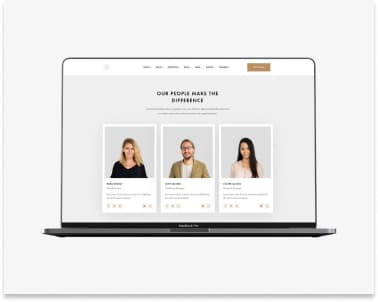
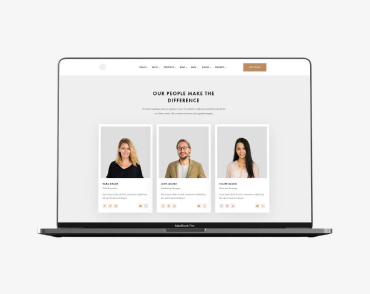
Виконані правки по 2 ДЗ

diff --git a/css/styles.css b/css/styles.css
@@ -1,7 +1,25 @@
+:root {
+  --brand-color-left: #2196F3;
+  --brand-color-right: #000000;
+  --brand-color-fut: #FFFFFF;
+  --hover-color: #2196F3;
+  --nav-color: #212121;
+  --contacts-color: #757575;
+  --hero-bg-color: #2F303A;
+  --light-collor: #FFFFFF;
+  --button-color: #2196F3;
+  --button-hover-color: #188CE8;
+  --spec-content-color: #757575;
+  --team-content-color: #F5F4FA;
+  --footer-color: #2F303A;
+  --cont-foot-color: #ffffff99;
+  --button-filters-color: #F5F4FA;
+  --portfolio-content-color: #757575;
+}
+
+
 body {
   font-family: 'Roboto';
-  font-style: normal;
-  font-weight: 400;
   font-size: 14px;
   color: #212121;
   letter-spacing: 0.03em;
@@ -21,7 +39,7 @@ font-family: 'Raleway';
   font-weight: 700;
   font-size: 26px;
   line-height: 1.19;
-  color: #2196F3;
+  color: var(--brand-color-left);
 }
 /* Друга частина лого */
 .logo-studio {
@@ -29,7 +47,7 @@ font-family: 'Raleway';
   font-weight: 700;
   font-size: 26px;
   line-height: 1.19;
-  color: #000000;
+  color: var(--brand-color-right);
 }
 /* Частина лого у футері (біла)*/
 .logo-studio-collor {
@@ -37,7 +55,7 @@ font-family: 'Raleway';
   font-weight: 700;
   font-size: 26px;
   line-height: 1.19;
-  color: #FFFFFF;
+  color: var(--brand-color-fut);
 }
 
 /* Навігація сайту */
@@ -45,40 +63,39 @@ font-family: 'Raleway';
   text-decoration: none;
   list-style: none;
     font-weight: 500;
-    font-size: 14px;
     line-height: 1.14;
     letter-spacing: 0.02em;
-    color: #212121;
+    color: var(--nav-color);
 
 }
 .nav-link:hover, 
 .nav-link:focus {
-  color: #2196F3;
+  color: var(--hover-color);
 }
 
 .nav .studio.current,
 .nav .portfolio.current {
-  color: #2196F3;
+  color: var(--hover-color);
 }
 
 /* Контакти сайту */
 .contacts a {
-    font-size: 14px;
+    font-weight: 500;
     line-height: 1.71;
     text-decoration: none;
-    color: #757575;
+    color: var(--contacts-color);
 }
 
 .contacts a:hover,
 .contacts a:focus {
-color: #2196F3;
+color: var(--hover-color);
 }
 
 
 
 /* Стилі на основний заголовок  */
 .hero {
-  background: #2F303A;
+  background: var(--hero-bg-color);
 }
 
 .heero-title {
@@ -88,7 +105,7 @@ color: #2196F3;
     text-align: center;
     letter-spacing: 0.06em;
     text-transform: uppercase;
-    color: #FFFFFF;
+    color: var(--light-collor);
     text-shadow: 0px 4px 4px rgba(0, 0, 0, 0.25);
 }
 /* Стилі на кнопку під основним банером */
@@ -102,14 +119,14 @@ color: #2196F3;
     text-align: center;
     letter-spacing: 0.06em;
     border-radius: 4px;
-    background: #2196F3;
-      color: #FFFFFF;
+    background: var(--button-color);
+      color: var(--light-collor);
 }
 
 
 .button:hover,
 .button:focus {
-  background: #188CE8;
+  background: var(--button-hover-color);
     box-shadow: 0px 4px 4px rgba(0, 0, 0, 0.15);
 }
 
@@ -133,16 +150,13 @@ color: #2196F3;
 
 .special-title {
     font-weight: 700;
-    font-size: 14px;
     line-height: 1.14;
     text-transform: uppercase;
 }
 
 .special-content {
-    font-weight: 400;
-    font-size: 14px;
     line-height: 1.71;
-    color: #757575;
+    color: var(--spec-content-color);
 }
 
 .title {
@@ -153,7 +167,7 @@ color: #2196F3;
 }
 
 .team {
-  background: #F5F4FA
+  background: var(--team-content-color);
 }
 
 .team-name {
@@ -167,31 +181,35 @@ font-weight: 500;
   font-size: 16px;
   line-height: 1.19;
   text-align: center;
-  color: #757575;
+  color: var(--spec-content-color);
 }
 
 .footer {
-  background: #2F303A;
+  background: var(--footer-color);
 }
 
 .contacts-foot {
     text-decoration: none;
     font-weight: 400;
-    font-size: 14px;
     line-height: 1.71;
-    color: #ffffff99;
+    color: var(--cont-foot-color);
 
 }
 
 .contacts-foot:hover,
 .contacts-foot:focus {
-  color: #2196F3;
+  color: var(--hover-color);
 }
 .address {
 text-decoration: none;
-font-size: 14px;
 line-height: 1.71;
-color: #FFFFFF;
+color: var(--light-collor);
+}
+
+.address-item {
+  line-height: 1.71;
+  letter-spacing: 0.03em;
+  color: var(--light-collor)
 }
 
 /* Portfolio */
@@ -201,13 +219,14 @@ color: #FFFFFF;
   font-weight: 500;
     font-size: 16px;
     line-height: 1.63;
-    background-color: #F5F4FA ;
+    background-color: var(--button-filters-color);
+    color: var(--nav-color);
 }
 
 .button-filters:hover,
 .button-filters:focus {
-  background-color: #2196F3;
-  color: #FFFFFF;
+  background-color: var(--button-hover-color);
+  color: var(--light-collor);
 }
 
 .portfolio-title {
@@ -220,7 +239,17 @@ color: #FFFFFF;
 .portfolio-content {
     font-size: 16px;
     line-height: 1.87;
-    color: #757575;
+    color: var(--portfolio-content-color)
 
 }
+.adres {
+  font-style: normal;
+}
+.address-position {
+  text-decoration: none;
+}
 
+.address:hover,
+.address:focus{
+  color: var(--button-hover-color);
+}

diff --git a/portfolio.html b/portfolio.html
@@ -36,7 +36,7 @@
     </header>
     <main>
       <!-- Filters -->
-      <section>
+      <section class="portfolio">
         <ul>
           <li><button class="button-filters" type="button">Усі</button></li>
           <li><button class="button-filters" type="button">Веб-сайти</button></li>
@@ -44,9 +44,9 @@
           <li><button class="button-filters" type="button">Дизайн</button></li>
           <li><button class="button-filters" type="button">Маркетинг</button></li>
         </ul>
-      </section>
-      <!-- Portfolio -->
-      <section class="portfolio">
+
+        <!-- Portfolio -->
+
         <h1 class="visually-hidden">Портфоліо</h1>
         <!-- h2 потім скирю, вирішив вказати для семантичності  -->
         <ul class="portfolio-list">
@@ -149,7 +149,7 @@
         <span class="logo-web">Web</span>
         <span class="logo-studio-collor">Studio</span>
       </a>
-      <address>
+      <address class="adres">
         <ul class="address-list">
           <li class="address-item">
             <a

diff --git a/index.html b/index.html
@@ -141,7 +141,7 @@
         <span class="logo-web">Web</span>
         <span class="logo-studio-collor">Studio</span>
       </a>
-      <address>
+      <address class="adres">
         <ul class="address-list">
           <li class="address-item">
             <a
